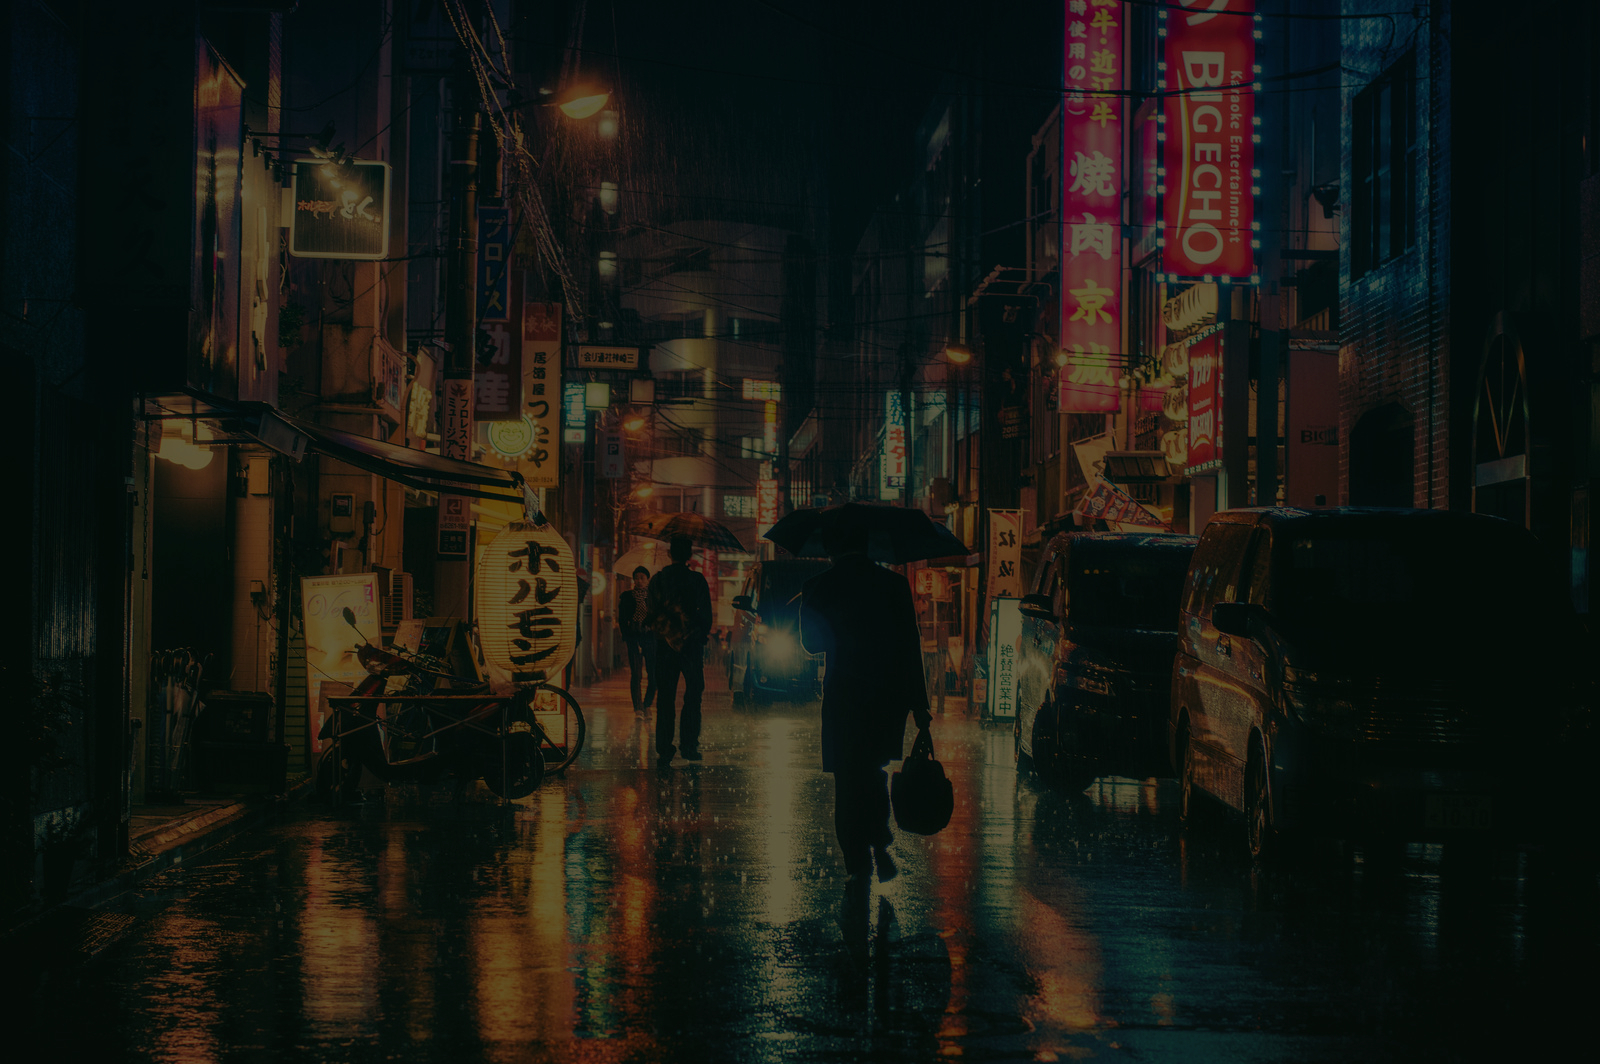
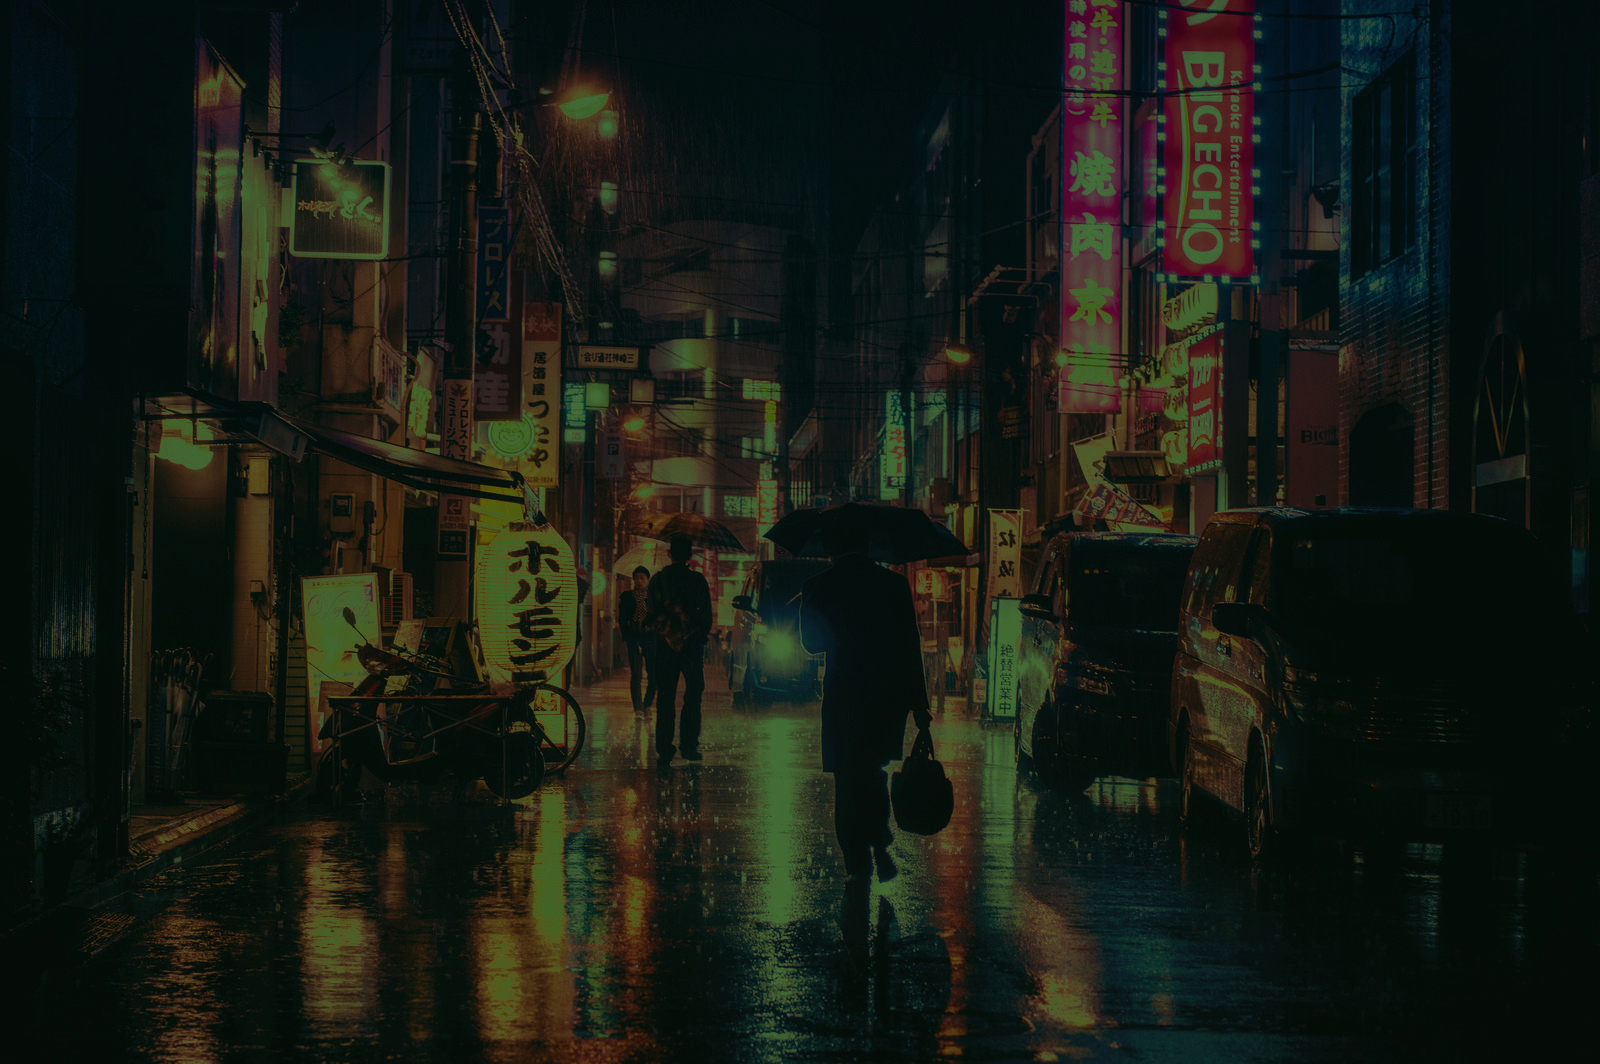
changed top slider backgrounds

diff --git a/public/stylesheets/slit-slider.css b/public/stylesheets/slit-slider.css
@@ -242,9 +242,9 @@
 	background-image: url(../images/slides/washitsu1.jpg);
 }
 #home .bg-img-2 {
-	background-image: url(../images/slides/koetsu3.jpg);
+	background-image: url(../images/slides/zazen.jpg);
 }
 #home .bg-img-3 {
-	background-image: url(../images/slides/mayuan.jpg);
+	background-image: url(../images/slides/cleanse.jpg);
 }
 
